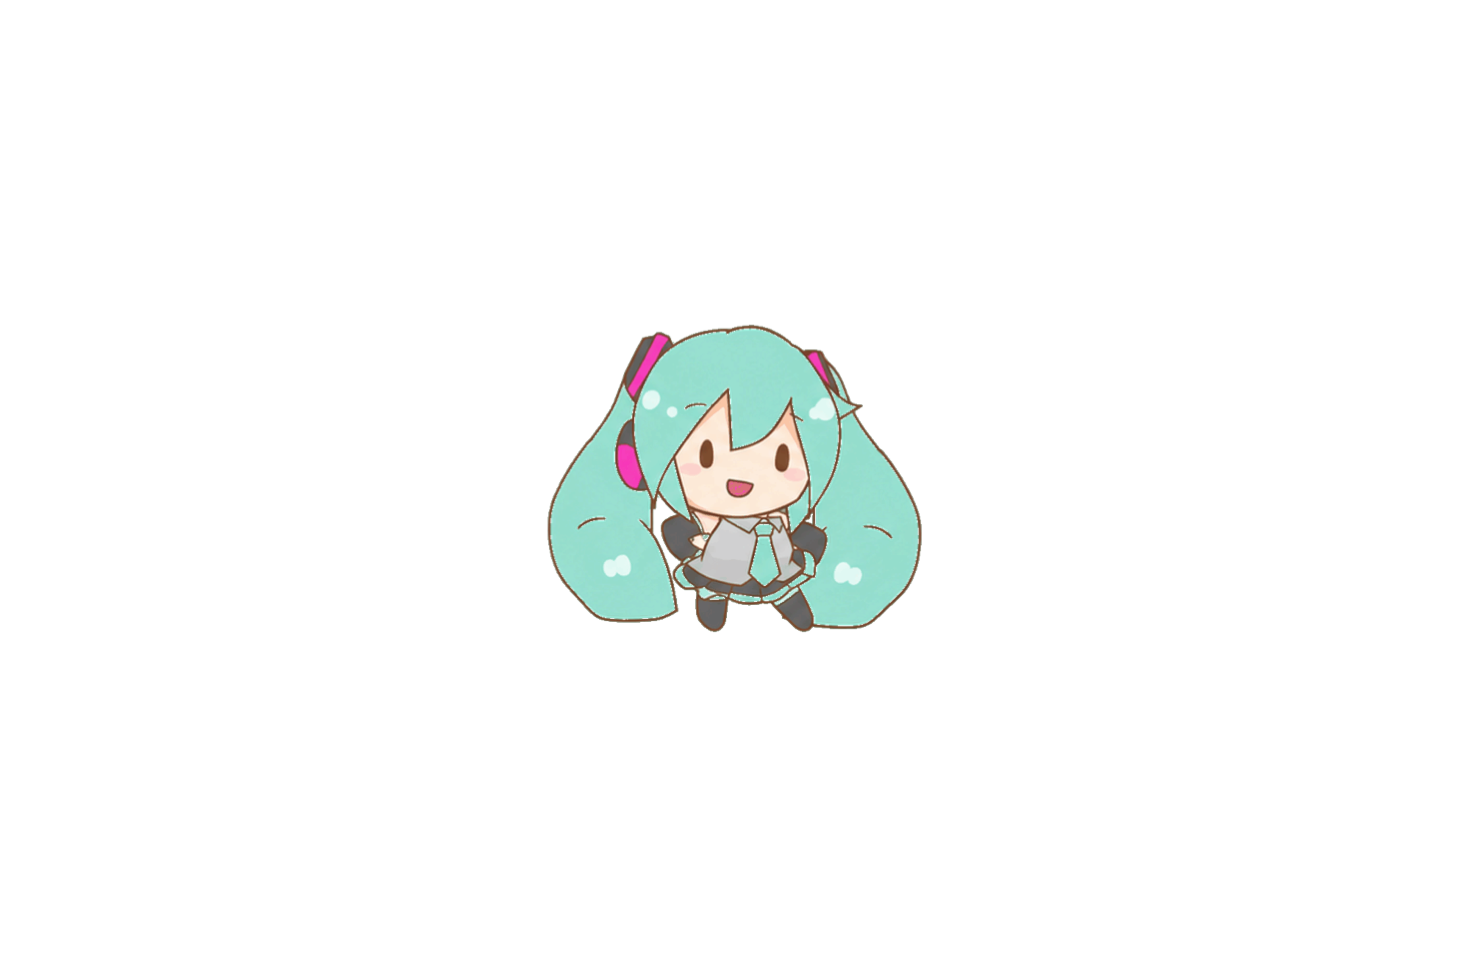
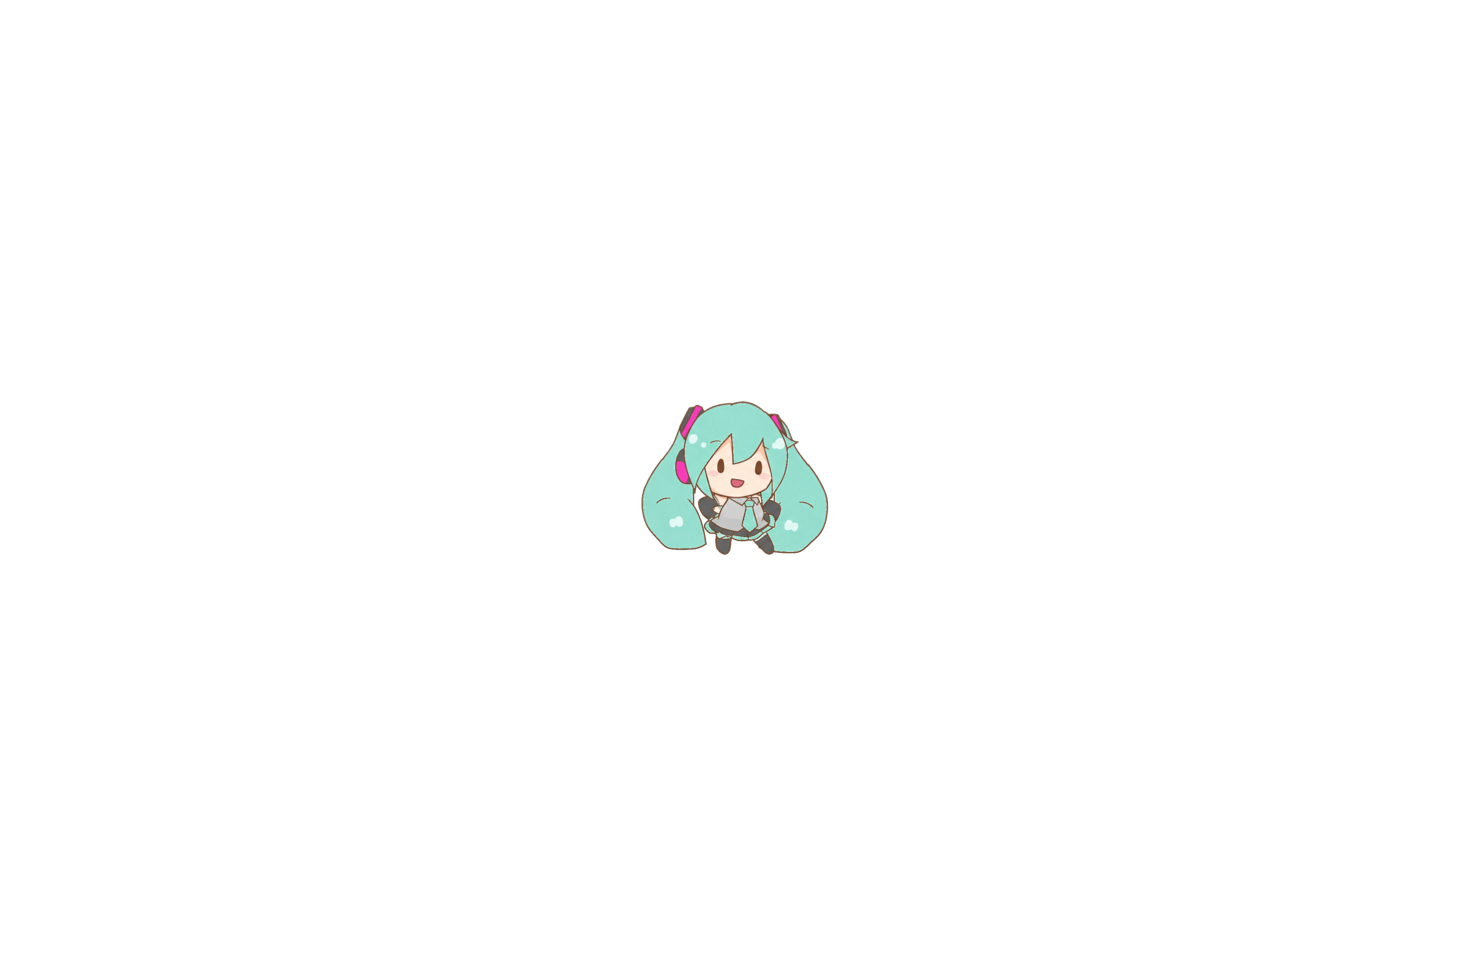
Reduce Hatsune Miku reminder size by half

Changed region(s): [[0.3673, 0.3337, 0.6429, 0.6674]]

diff --git a/Sources/MinutesCore/TimerAlarms.swift b/Sources/MinutesCore/TimerAlarms.swift
@@ -113,7 +113,7 @@ public struct MikuLandingPlacement {
         let room = showsCountdown ? height - margin - clockTop - gap : height - 2 * margin
         let bodyWidth = max(0.01, visibleRect.width), bodyHeight = max(0.01, visibleRect.height)
         let side = max(1, min(440, width * 0.34, height * 0.43,
-                              (width - 2 * margin) / bodyWidth, max(1, room) / bodyHeight))
+                              (width - 2 * margin) / bodyWidth, max(1, room) / bodyHeight)) * 0.5
         size = CGSize(width: side, height: side)
         let x = width / 2 - visibleRect.midX * side
         let y = showsCountdown ? clockTop + gap - visibleRect.minY * side

diff --git a/docs/miku-scene.md b/docs/miku-scene.md
@@ -6,7 +6,7 @@
 
 - ImageIO 一次解码并缓存帧，通过 Core Animation 按原帧时长循环播放。
 - 一个提醒只显示一个角色，位于触发番茄钟所在屏幕；沿用覆盖所有桌面空间的提醒窗口配置。
-- 从屏幕顶部沿水平中线进入，无弹跳和随机旋转。根据屏幕大小调整显示尺寸；计算所有帧的实际可见边界，透明边距不会影响落点。
+- 从屏幕顶部沿水平中线进入，无弹跳和随机旋转。根据屏幕大小调整显示尺寸，并在适配后的尺寸基础上缩小为原来的 50%；计算所有帧的实际可见边界，透明边距不会影响落点。
 - 显示倒计时：角色停在数字上方并保留间距；不显示倒计时：角色的可见区域居中。
 - 双击淡出并结束休息，停止当前音乐；原有重复计时规则生效。单击和鼠标移动不会结束休息。
 - 系统开启“减少动态效果”时，显示第一帧并淡入，保留相同落点与双击操作。
